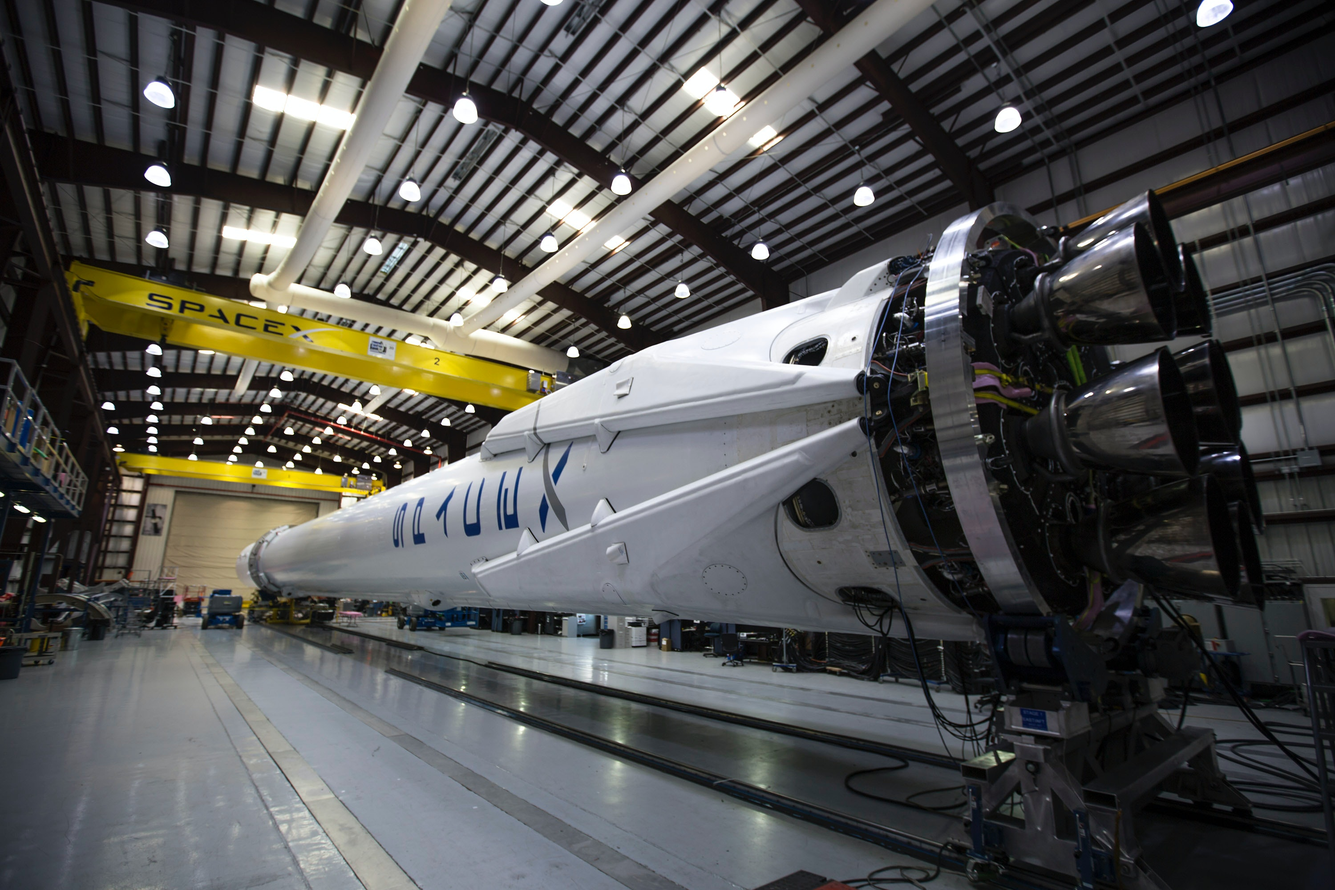
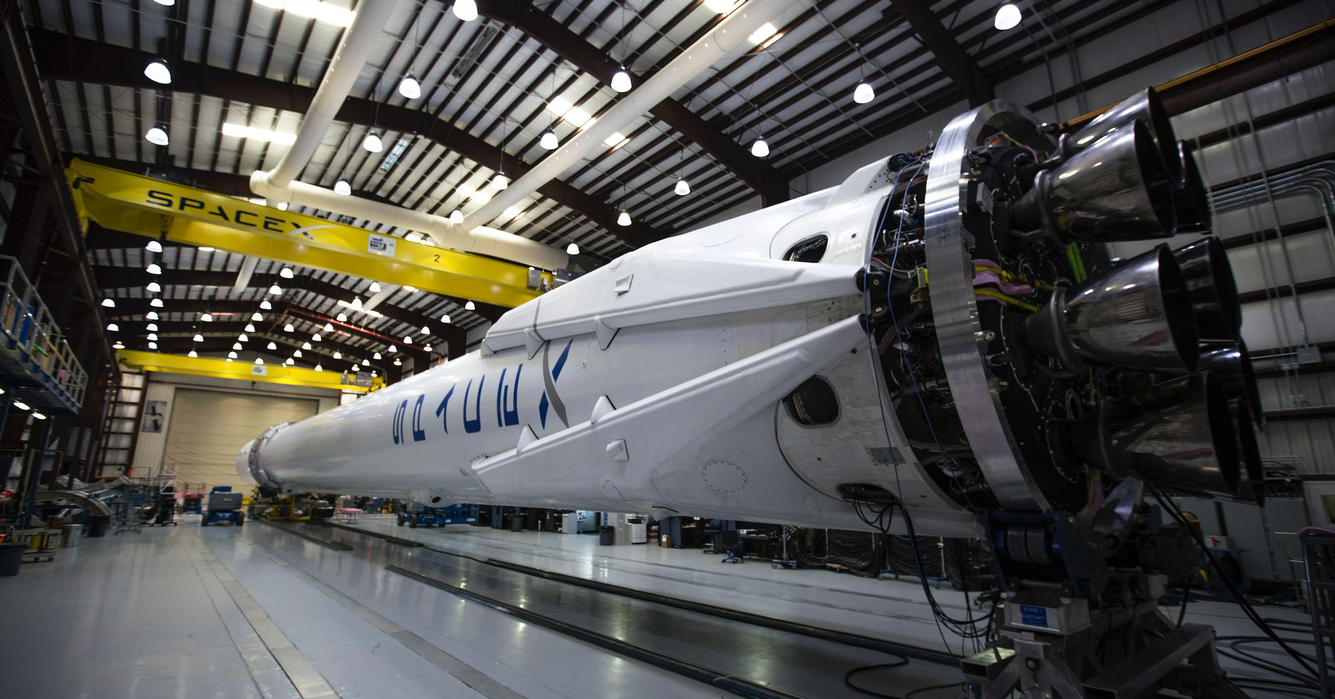
integrated homepage features and colors

diff --git a/Aboutus.html b/Aboutus.html
@@ -6,32 +6,34 @@
     <meta name="viewport" content="width=device-width, initial-scale=1.0">
     <title>About Us</title>
 
-    <link rel="stylesheet" href="aboutus.css">
-    <link rel="stylesheet" href="style.css">
     <link href="https://cdn.jsdelivr.net/npm/bootstrap@5.0.1/dist/css/bootstrap.min.css" rel="stylesheet" integrity="sha384-+0n0xVW2eSR5OomGNYDnhzAbDsOXxcvSN1TPprVMTNDbiYZCxYbOOl7+AMvyTG2x" crossorigin="anonymous">
+    <link rel="stylesheet" href="css/style.css">
+    
+    
 </head>
 <body>
+    <nav>
+        <a href="index.html" id="logo">
+            <img src="img/logo.png">
+        </a>
     
+        <a href="index.html" class="active">Home</a>
+        <a href="Aboutus.html">AboutUs</a>
+        <a href="services.html">Services</a>
+    </nav>
     <div class="container">
-        <nav>
-            <a href="index.html" id="logo">
-                <img src="img/logo.png">
-            </a>
         
-            <a href="index.html" class="active">Home</a>
-            <a href="Aboutus.html">AboutUs</a>
-            <a href="services.html">Services</a>
-        </nav>
-        <div class="row-1">
+        <div class="row row-1">
             <div class="col-12">
-                <img src="img/pexels-pixabay-39651.jpg" alt="">
+                <img src="img/pexels-spacex-60130.jpg" alt="">
             </div>
         </div>
-        <div class="row-2">
+        <div class="row row-2">
+            <h1>ABOUT US</h1>
             <div class="card mb-3">
                 <div class="row g-0">
-                  <div class="col-md-4">
-                    <img src="..." alt="...">
+                  <div class="col-md-4 ">
+                    <img src="img/pexels-pixabay-355956.jpg"  alt="...">
                   </div>
                   <div class="col-md-8">
                     <div class="card-body">
@@ -53,14 +55,14 @@
                     </div>
                   </div>
                   <div class="col-md-4">
-                    <img src="..." alt="...">
+                    <img src="img/pexels-pixabay-39651.jpg" alt="...">
                   </div>
                 </div>
               </div>
               <div class="card mb-3">
                 <div class="row g-0">
                   <div class="col-md-4">
-                    <img src="..." alt="...">
+                    <img src="img/pexels-pixabay-47367.jpg" alt="...">
                   </div>
                   <div class="col-md-8">
                     <div class="card-body">
@@ -82,13 +84,13 @@
                     </div>
                   </div>
                   <div class="col-md-4">
-                    <img src="..." alt="...">
+                    <img src="img/pexels-pixabay-2166.jpg" alt="...">
                   </div>
                 </div>
               </div>
             
         </div>
-        <div class="row-3">
+        <div class="row row-3">
             <h2>LEADERS</h2>
             <div class="card-group">
                 <div class="card">
@@ -126,21 +128,22 @@
               </div>
               
         </div>
-        <footer>
-            <div class="gratitude">Icons made by
-                <a href="https://www.freepik.com" title="Freepik">Freepik</a>
-                from
-                <a href="https://www.flaticon.com/" title="Flaticon">www.flaticon.com</a>
-            </div>
-            <div class="icons">
-                <a href="#"><img src="img/facebook.svg"></a>
-                <a href="#"><img src="img/instagram.svg"></a>
-                <a href="#"><img src="img/youtube.svg"></a>
-            </div>
         
-        
-        
-        </footer>
     </div>
+    <footer>
+        <div class="gratitude">Icons made by
+            <a href="https://www.freepik.com" title="Freepik">Freepik</a>
+            from
+            <a href="https://www.flaticon.com/" title="Flaticon">www.flaticon.com</a>
+        </div>
+        <div class="icons">
+            <a href="#"><img src="img/facebook.svg"></a>
+            <a href="#"><img src="img/instagram.svg"></a>
+            <a href="#"><img src="img/youtube.svg"></a>
+        </div>
+    
+    
+    
+    </footer>
 </body>
 </html>

diff --git a/css/Aboutus.scss b/css/Aboutus.scss
@@ -1,7 +1,3 @@
-@import url(style.scss);
-
-
-
 $color-dark: #334443;
 $color-green: #34656d;
 $color-green-light: #c6ffc1;
@@ -16,48 +12,43 @@ $color-green-light: #c6ffc1;
 $color-beige: #fffbdf;
 $font-description: 26px;
 
+*{
+    margin: 0 auto;
+    padding: 0;
+}
 
 body{
-    background-color: $color-green;
+    background-color: #334443;
+    margin: auto
 }
-
 .container {
-
-    margin: 60px;
-    display: grid;
-    background-color: $color-dark;
-
-
-
-}
-.row-3{
-    display: flex;
-    
-
+    margin-top: 60px;
+    justify-content: center;
 }
 
-.col-12 {
 
-    img {
-        width: 100%;
-        height: 400px;
-    }
-}
-
-.col-4 {
-    img {
-        width: 250px;
-        height: 250px;
-    }
-}
- 
-.card {
+.card{
     padding: 20px;
-    color: #fffbdf;
-    background-image: linear-gradient(#34656d, #5ab7c5ad);
-    box-shadow: 2px 2px 8px #4f6968;
-    position: static;
-    
+color: #fffbdf;
+background-image: linear-gradient(#34656d, #5ab7c5ad);
+box-shadow: 2px 2px 8px #4f6968;
 
 }
 
+.row-2 {
+    img {
+        height: 200px;
+        width: 300px;
+    }   
+}
+
+.row-1 {
+    img {
+            width: 100%;
+            height: 400px;
+    }
+}
+
+.row {
+    margin: 40px;
+}

diff --git a/css/Aboutus.css b/css/Aboutus.css
@@ -1,38 +1,14 @@
-@import url(style.scss);
 body {
-  background-color: #34656d;
+  background-color: #334443;
 }
 
 .container {
   margin: 60px;
-  display: -ms-grid;
-  display: grid;
-  background-color: #334443;
 }
 
 .row-3 {
   display: -webkit-box;
   display: -ms-flexbox;
   display: flex;
-}
-
-.col-12 img {
-  width: 100%;
-  height: 400px;
-}
-
-.col-4 img {
-  width: 250px;
-  height: 250px;
-}
-
-.card {
-  padding: 20px;
-  color: #fffbdf;
-  background-image: -webkit-gradient(linear, left top, left bottom, from(#34656d), to(#5ab7c5ad));
-  background-image: linear-gradient(#34656d, #5ab7c5ad);
-  -webkit-box-shadow: 2px 2px 8px #4f6968;
-          box-shadow: 2px 2px 8px #4f6968;
-  position: static;
 }
 /*# sourceMappingURL=Aboutus.css.map */

diff --git a/css/style.css b/css/style.css
@@ -163,6 +163,42 @@ nav a.active {
   }
 }
 
+* {
+  margin: 0 auto;
+  padding: 0;
+}
+
+body {
+  background-color: #334443;
+  margin: auto;
+}
+
+.container {
+  margin-top: 60px;
+  justify-content: center;
+}
+
+.card {
+  padding: 20px;
+  color: #fffbdf;
+  background-image: linear-gradient(#34656d, #5ab7c5ad);
+  box-shadow: 2px 2px 8px #4f6968;
+}
+
+.row-2 img {
+  height: 200px;
+  width: 300px;
+}
+
+.row-1 img {
+  width: 100%;
+  height: 400px;
+}
+
+.row {
+  margin: 40px;
+}
+
 body {
   background-color: #334443;
 }
